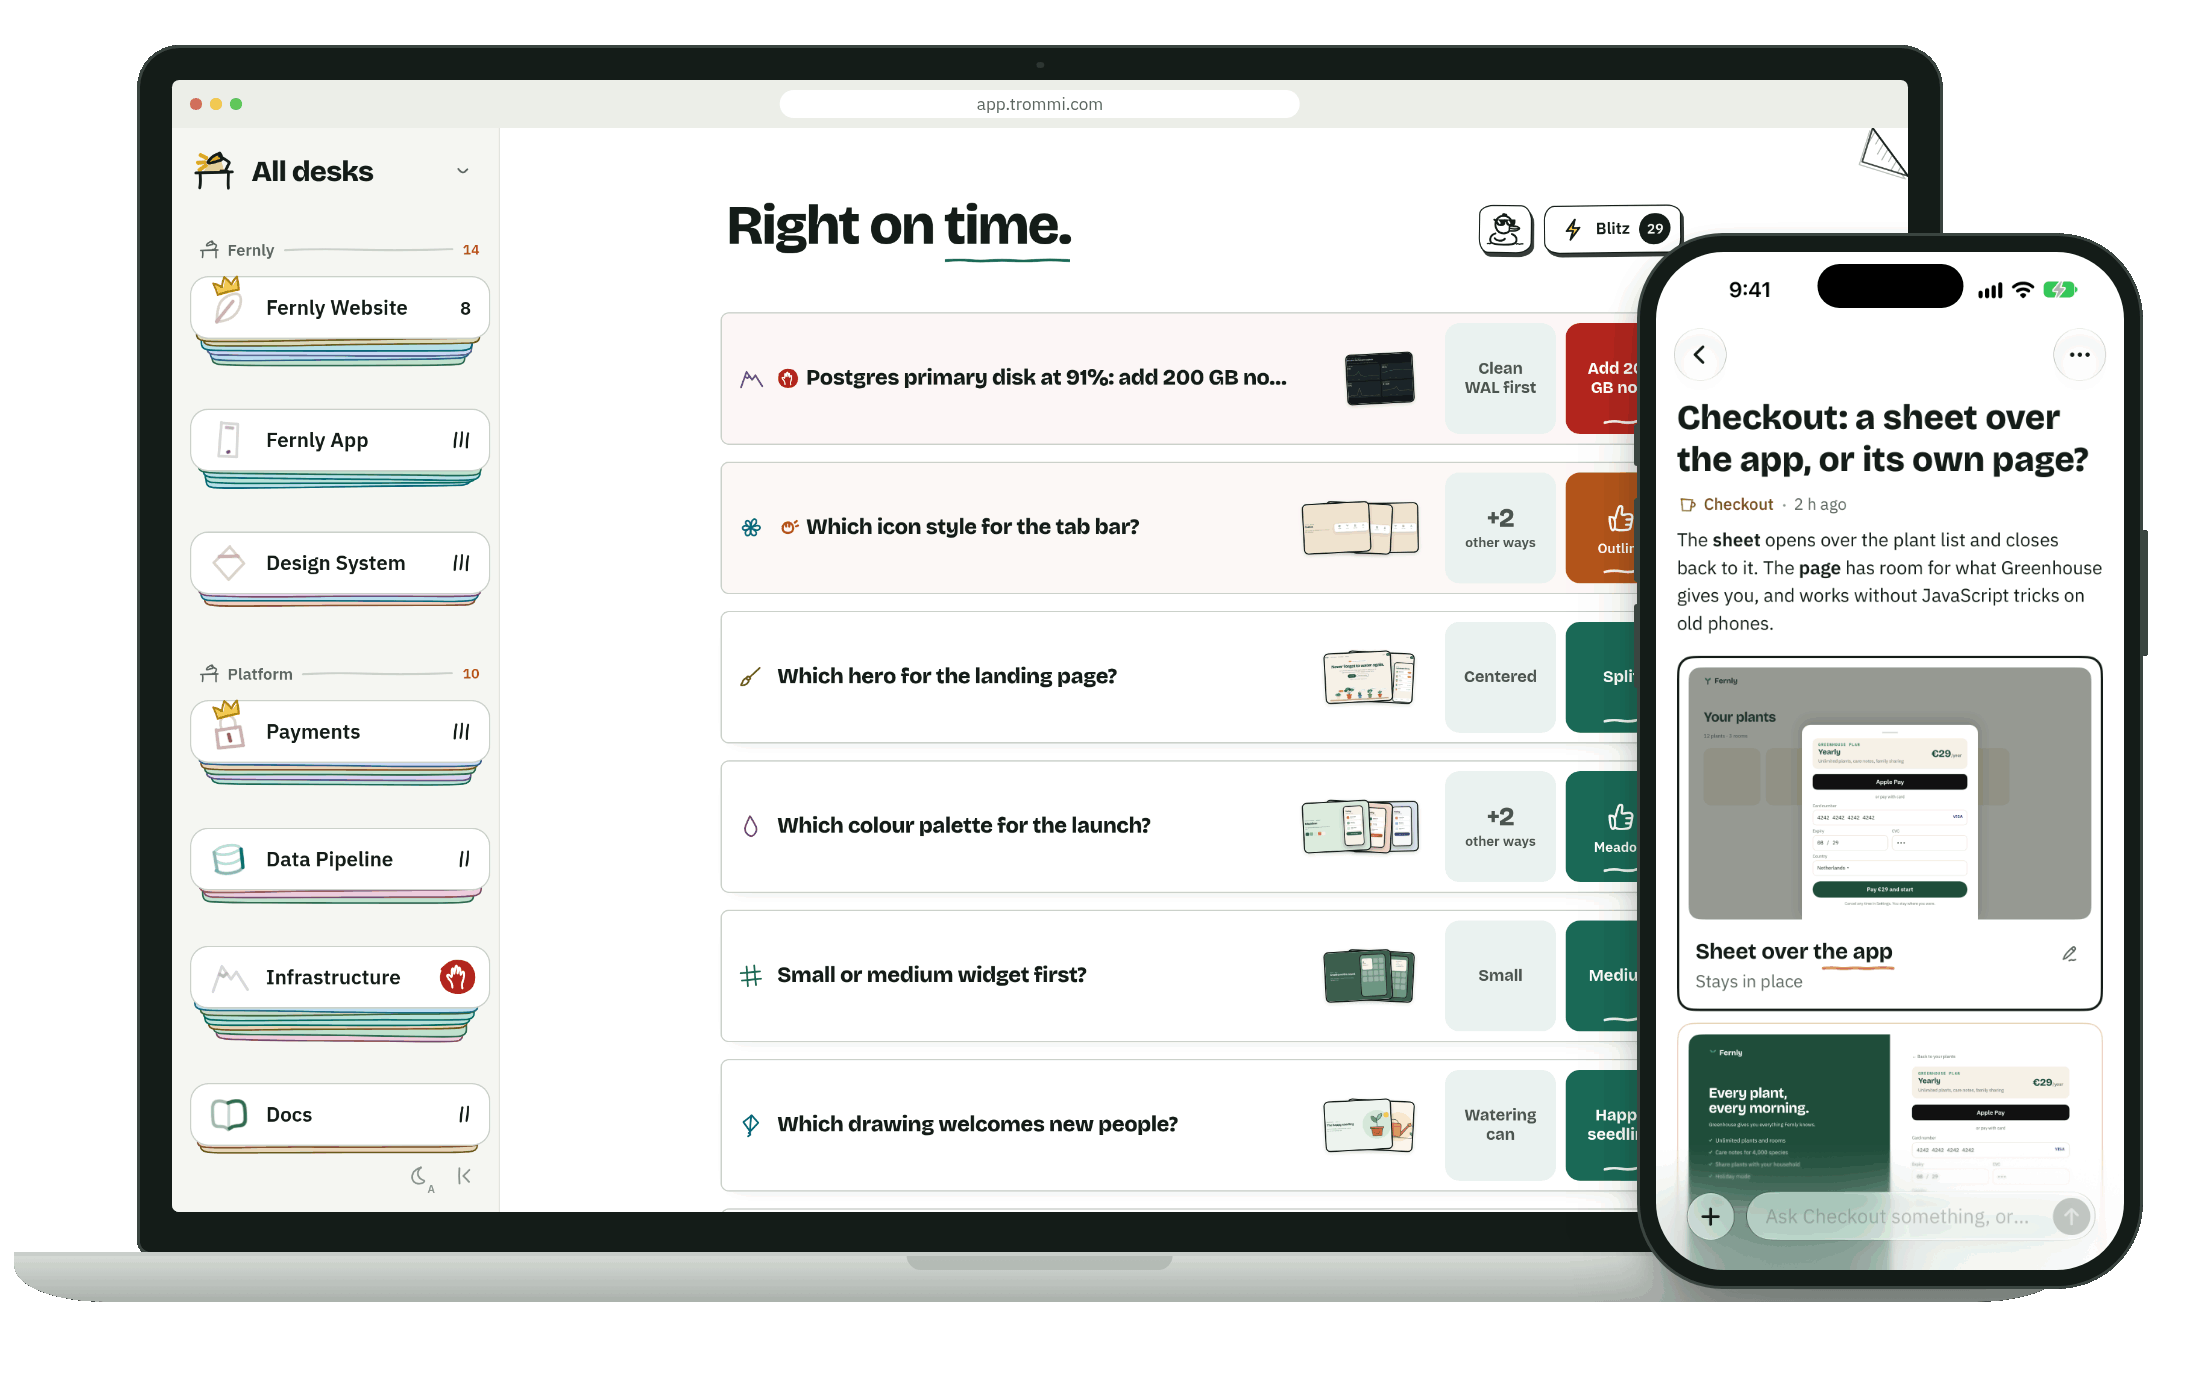
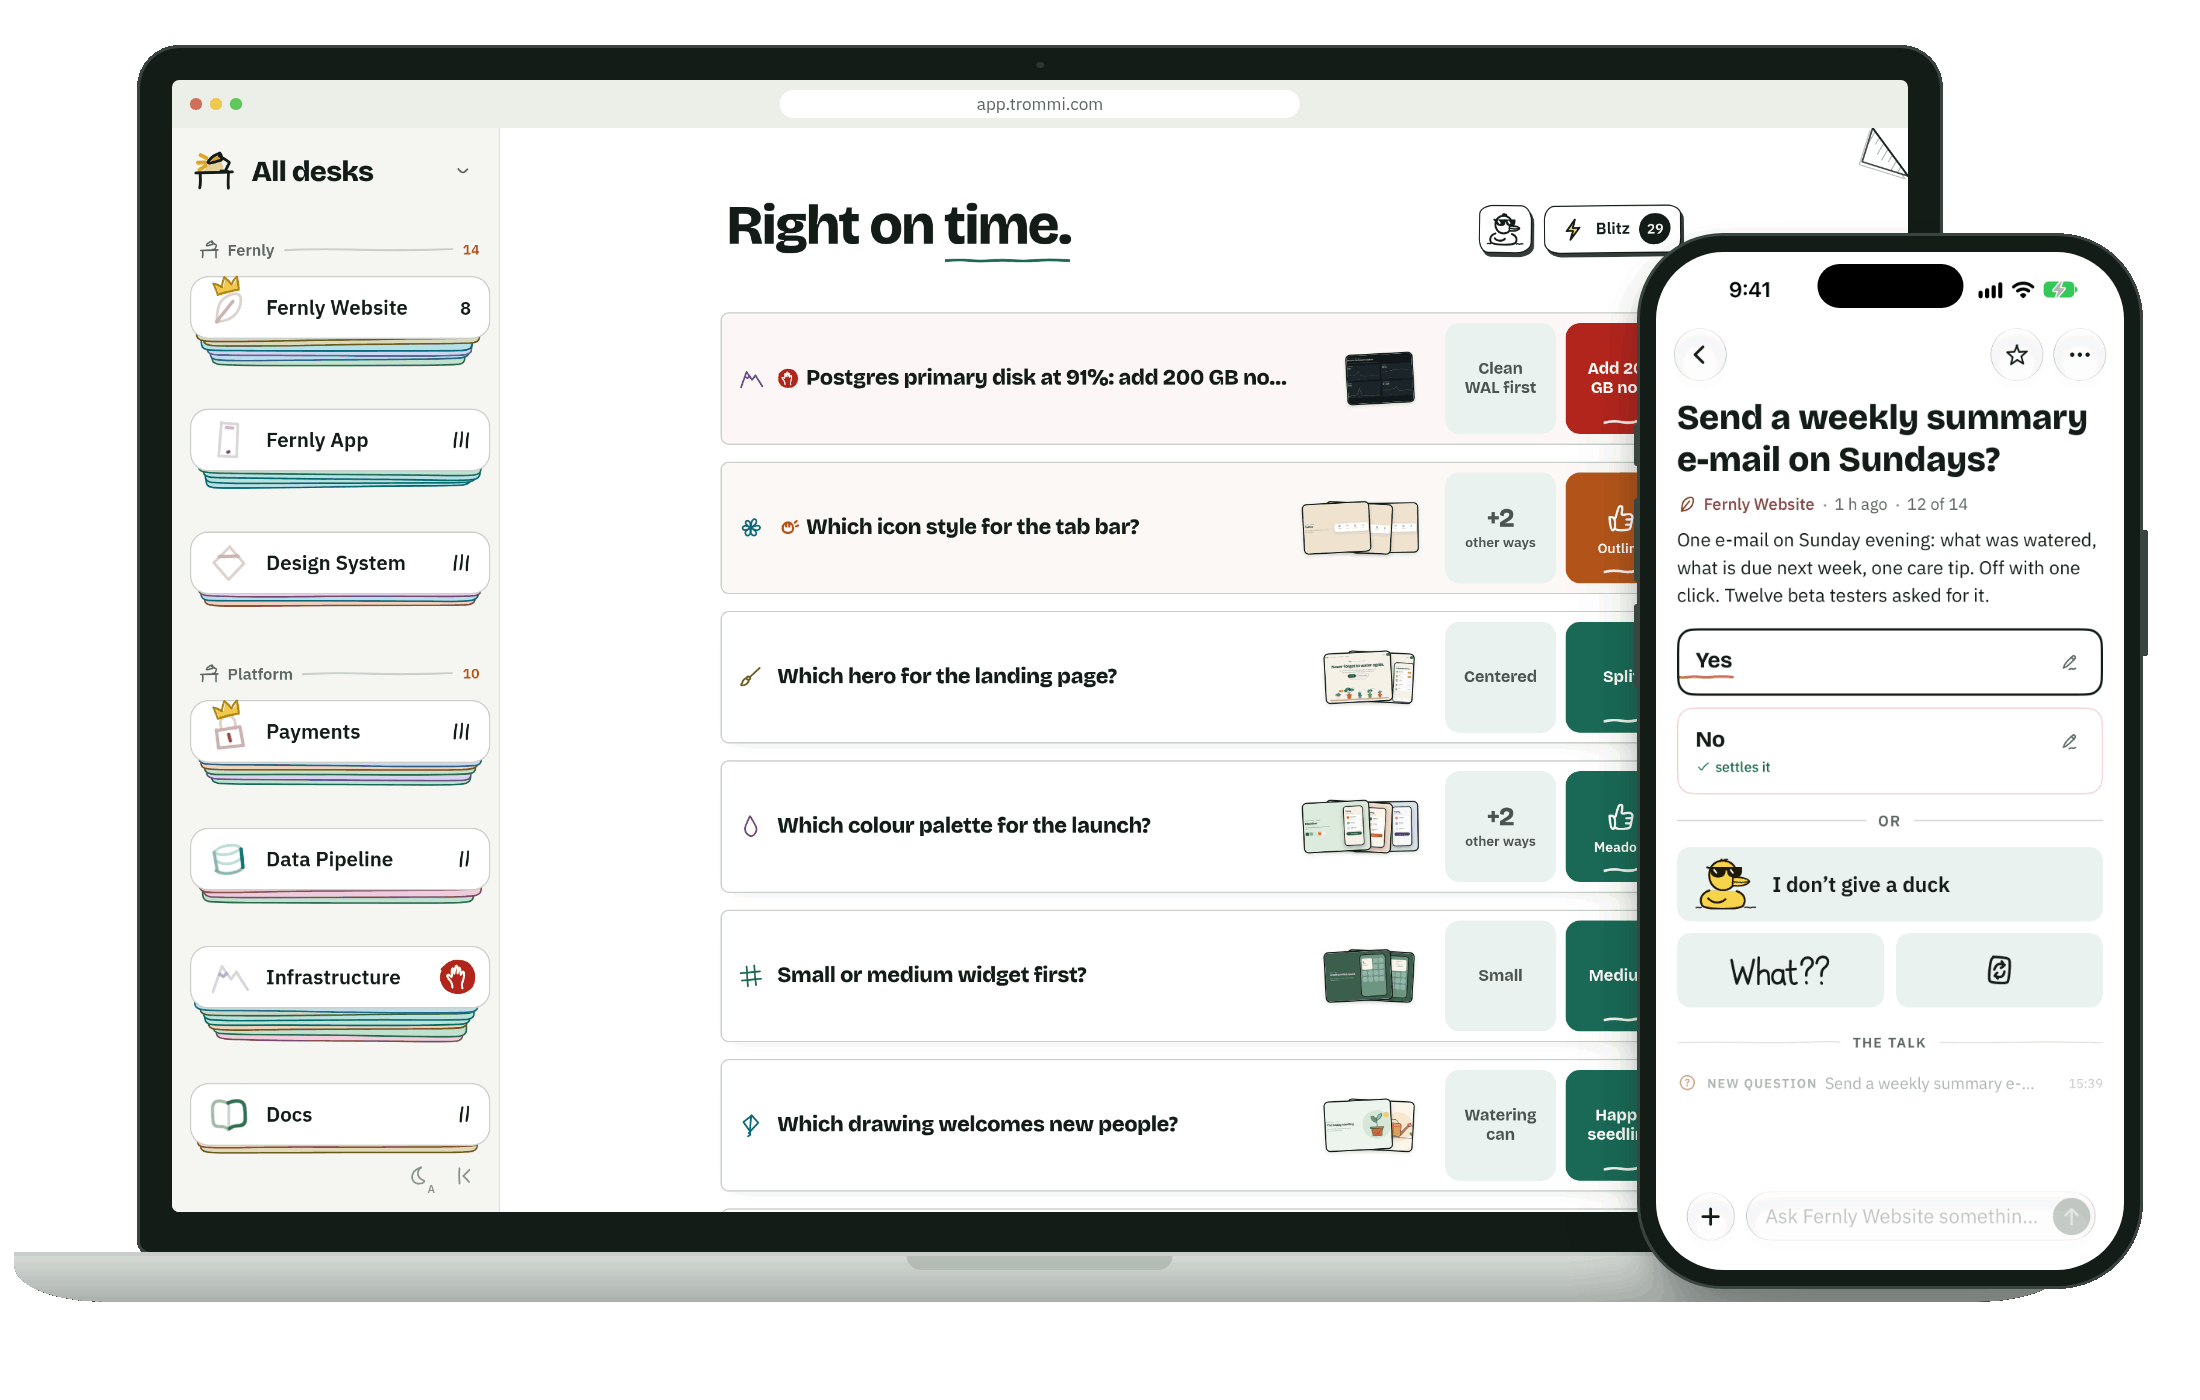
Updated: hero picture (README, trommi.com) shows a short yes/no card on the iPhone instead of the checkout card, light and dark (#75)
Updated: hero alt texts in README.md and site/public/index.html
New: CHANGELOG line for the calmer hero picture

Changed region(s): [[0.7418, 0.2764, 0.9582, 0.9214]]

diff --git a/site/public/index.html b/site/public/index.html
@@ -59,7 +59,7 @@
     <!-- The apps: real screenshots of the demo room (the made-up Fernly) in drawn frames, light and dark.
          theme.js points the dark sources at the picked theme. -->
     <figure class="hero-shot">
-      <picture><source media="(prefers-color-scheme: dark)" type="image/webp" srcset="/images/hero-dark.webp"><source media="(prefers-color-scheme: dark)" srcset="/images/hero-dark.png"><source type="image/webp" srcset="/images/hero-light.webp"><img src="/images/hero-light.png" width="1100" height="700" alt="Trommi on a laptop and an iPhone: the Desk in the web app lists the questions agents are waiting on, each with its answers as buttons; the iPhone shows one card, a design question with two pictures to choose from." decoding="async" fetchpriority="high"></picture>
+      <picture><source media="(prefers-color-scheme: dark)" type="image/webp" srcset="/images/hero-dark.webp"><source media="(prefers-color-scheme: dark)" srcset="/images/hero-dark.png"><source type="image/webp" srcset="/images/hero-light.webp"><img src="/images/hero-light.png" width="1100" height="700" alt="Trommi on a laptop and an iPhone: the Desk in the web app lists the questions agents are waiting on, each with its answers as buttons; the iPhone shows one short yes/no question with its two answers." decoding="async" fetchpriority="high"></picture>
     </figure>
   </div>
   <ul class="wrap facts">

diff --git a/README.md b/README.md
@@ -2,7 +2,7 @@
 
 **Your agents ring. You decide.**
 
-<img src="site/public/images/hero-light.png" width="880" alt="Trommi on a laptop and an iPhone: the Desk of the web app with the questions agents wait on, and one decision card on the phone">
+<img src="site/public/images/hero-light.png" width="880" alt="Trommi on a laptop and an iPhone: the Desk of the web app with the questions agents wait on, and one yes/no question on the phone">
 
 Your Claude Code and Codex sessions ask, you answer: chat, decision cards and a Scribble Board, on the web and on
 the iPhone. Everything is encrypted on the devices with MLS (RFC 9420); the server only passes sealed messages on.

diff --git a/CHANGELOG.md b/CHANGELOG.md
@@ -38,6 +38,7 @@ Star the cards you want to keep. Web and iPhone now agree on snoozes, drafts and
 **Better**
 - **Faster start with many archived sessions**: web, iPhone and the connector load only active sessions from the
   hub; an archived session is loaded when you open it, and stays loaded when the app reads the room anew.
+- **Calmer hero picture**: the phone on trommi.com and in the README now shows one short yes/no question.
 
 **Fixed**
 - **New agent online at once**: an agent that joins with `trommi-connector connect` goes online right away under its folder's name, not "gone" under a raw id until its first step.
